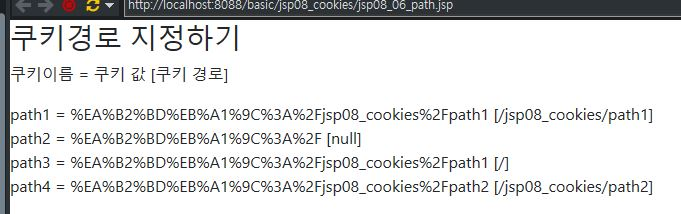
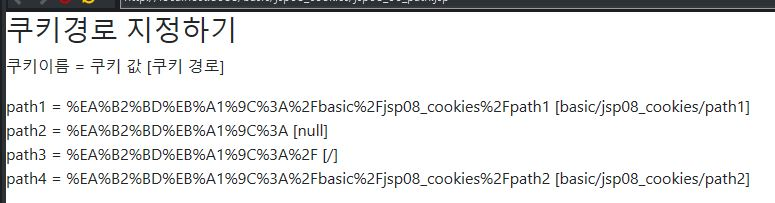
jsp

Changed region(s): [[0.0, 0.0, 1.0, 1.0]]

diff --git a/docs/jsp/cookie.md b/docs/jsp/cookie.md
@@ -134,8 +134,10 @@ syntax
 %>
 ```
 
-예제 
-{: .label .label-purple .mt-2}
+### Example
+
+**쿠키 이름과 값 읽어오기**
+
 ```jsp
 <%
     Cookie[] cookies = request.getCookies();            //쿠키의 값 읽어오기
@@ -162,6 +164,8 @@ syntax
 
 예를들어 이름이 name인 쿠키 값을 면경하려면 새로운 name쿠키를 생성해서 응답데이터에 추가함
 
+쿠키 값을 변경한다는 것은 기존에 존재하는 쿠키를 변경한다는 것 따라서 쿠키가 있는지 유무부터 판단해야 함
+
 syntax
 {: .label .mt-2}
 ```jsp
@@ -171,10 +175,10 @@ syntax
 %>
 ```
 
-쿠키 값을 변경한다는 것은 기존에 존재하는 쿠키를 변경한다는 것 따라서 쿠키가 있는지 유무부터 판단해야 함
+### Example
 
-예제 
-{: .label .label-purple .mt-2}
+**쿠키 이름이 name인 쿠키 변경하기**
+
 ```jsp
 <%
     Cookie[] cookies = request.getCookies();              //쿠키 전체를 가져오기
@@ -196,6 +200,8 @@ syntax
 
 정확하게 말하면 지속시간을 0초로 바꿔버려서 없어지게 하는것
 
+반대로 지속시간을 지정하면 쿠키를 오래동안 [유효]()하게 할 수 있음 
+
 syntax
 {: .label .mt-2}
 ```jsp
@@ -205,8 +211,10 @@ syntax
 %>
 ```
 
-예제 
-{: .label .label-purple .mt-2}
+### Example
+
+**쿠키 이름이 name인 쿠키 삭제하기**
+
 ```jsp
 <%
     Cookie[] cookies = request.getCookies();           
@@ -221,6 +229,33 @@ syntax
          }
     }
 >%
+```
+
+#### Delete All Cookies
+
+**전체 쿠키를 삭제하고 싶을 때 사용함**
+
+현재 페이지 경로의 쿠키만 삭제함, 만약 더 깊은 경로로 관련 도메인에 모두 쿠키를 전송했다면 깊은 경로에 있는 쿠키는 삭제되지 않음
+
+예를들어 A파일에서 쿠키를 삭제하는 프로그램을 작성하더라도 쿠키인스턴스.setPath("");를 어떻게, 얼마나 깊게 작성했느냐에 따라 달라짐
+
+(경로를 설정하지 않았으면 삭제됨, /이라고 주면 삭제되지 않음)
+
+```jsp
+<h3>쿠키값 전체 삭제하기</h3>
+
+<% 
+	Cookie[] cookies = request.getCookies();
+	if(cookies != null && cookies.length>0 ){
+		for(int i=0;i<cookies.length;i++){
+			Cookie cookie = new Cookie(cookies[i].getName(), "");
+			cookie.setMaxAge(0);
+			response.addCookie(cookie);
+		}
+	}
+%>
+
+name 쿠키값을 삭제했습니다
 ```
 
 ### Cookie Domain
@@ -335,40 +370,71 @@ syntax
 ...
 
 <h3>쿠키경로 지정하기</h3>
-	
-	<%
-		Cookie cookie1 = new Cookie("path1", URLEncoder.encode("경로:/jsp08_cookies/path1", "utf-8"));
-		cookie1.setPath("/jsp08_cookies/path1");
-		response.addCookie(cookie1);
-	
-		Cookie cookie2 = new Cookie("path2", URLEncoder.encode("경로:", "utf-8"));
-		response.addCookie(cookie2);
 
-		Cookie cookie3 = new Cookie("path3", URLEncoder.encode("경로:/", "utf-8"));
-		cookie3.setPath("/");
-		response.addCookie(cookie3);
-		
-		Cookie cookie4 = new Cookie("path4", URLEncoder.encode("경로:/jsp08_cookies/path2", "utf-8"));
-		cookie4.setPath("/jsp08_cookies/path2");
-		response.addCookie(cookie4);
-	%>
-	
-	<p>쿠키이름 = 쿠키 값 [쿠키 경로]</p>
-	<%= cookie1.getName() %> = <%=cookie1.getValue() %> [<%= cookie1.getPath() %>] <br>
-	<%= cookie2.getName() %> = <%=cookie2.getValue() %> [<%= cookie2.getPath() %>] <br>
-	<%= cookie3.getName() %> = <%=cookie3.getValue() %> [<%= cookie3.getPath() %>] <br>
-	<%= cookie4.getName() %> = <%=cookie4.getValue() %> [<%= cookie4.getPath() %>] <br>
+<%
+    Cookie cookie1 = new Cookie("path1", URLEncoder.encode("경로:/basic/jsp08_cookies/path1", "utf-8"));
+    cookie1.setPath("basic/jsp08_cookies/path1");
+    response.addCookie(cookie1);
+
+    Cookie cookie2 = new Cookie("path2", URLEncoder.encode("경로:", "utf-8"));
+    response.addCookie(cookie2);
+
+    Cookie cookie3 = new Cookie("path3", URLEncoder.encode("경로:/", "utf-8"));
+    cookie3.setPath("/");
+    response.addCookie(cookie3);
+
+    Cookie cookie4 = new Cookie("path4", URLEncoder.encode("경로:/basic/jsp08_cookies/path2", "utf-8"));
+    cookie4.setPath("basic/jsp08_cookies/path2");
+    response.addCookie(cookie4);
+%>
+
+<p>쿠키이름 = 쿠키 값 [쿠키 경로]</p>
+<%= cookie1.getName() %> = <%=cookie1.getValue() %> [<%= cookie1.getPath() %>] <br>
+<%= cookie2.getName() %> = <%=cookie2.getValue() %> [<%= cookie2.getPath() %>] <br>
+<%= cookie3.getName() %> = <%=cookie3.getValue() %> [<%= cookie3.getPath() %>] <br>
+<%= cookie4.getName() %> = <%=cookie4.getValue() %> [<%= cookie4.getPath() %>] <br>
 ```
 
 ![](https://gekdev.github.io/docs/jsp/example/cookie3.jpg)
 
-1. jsp08_cookies에서 쿠키보기
+1. 같은 레벨의 경로에서(jsp08_cookies) 쿠키보기
 
-    경로가 지정이 안되어있거나(같은 레벨의 경로), /인 쿠키만 출력됨
+    &#9656; 경로가 지정이 안되어있거나(같은 레벨의 경로), /인 쿠키만 출력됨
     
     ![](https://gekdev.github.io/docs/jsp/example/cookiespath1.jpg)
 
+2. 아래 레벨의 경로1(path1)에서 쿠키보기
+
+    &#9656; 경로 지정 X, 경로 /, 경로 path1 출력 (path2출력 X)
+
+    ![](https://gekdev.github.io/docs/jsp/example/path1.jpg)
+
+3. 아래 레벨의 경로2(path2)에서 쿠키보기
+
+    &#9656; 경로 지정 X, 경로 /, 경로 path2 출력 (path1출력 X)
+
+    ![](https://gekdev.github.io/docs/jsp/example/path2.jpg)
+
 ### Effective Time for Cookies
+
+**쿠키는 유효시간이 있음** 
+
+&#9656; 쿠키의 유효시간을 지정하지 않으면 웹 브라우저를 종료할 때 쿠키를 함께 삭제
+
+&#9656; 웹 브라우저 종료 후 다시 웹 브라우저를 실행하면 삭제한 쿠키는 서버에 전송되지 않음
+
+&#9656; 쿠키의 유효시간을 정해놓으면 그 유효시간 동안 쿠키가 존재하며, 웹 브라우저를 종료해도 유효시간이 지나지 않으면 쿠키를 삭제하지 않음
+
+&#9656; 유효 시간을 지정하려면 setMaxAge()메서드를 사용(초 단위로 유효시간을 지정)
+
+syntax
+{: .label .mt-2}
+<div class="code-example" markdown="1">
+
+</div>
+
+
+
 
 ### Cookie and Header
 
